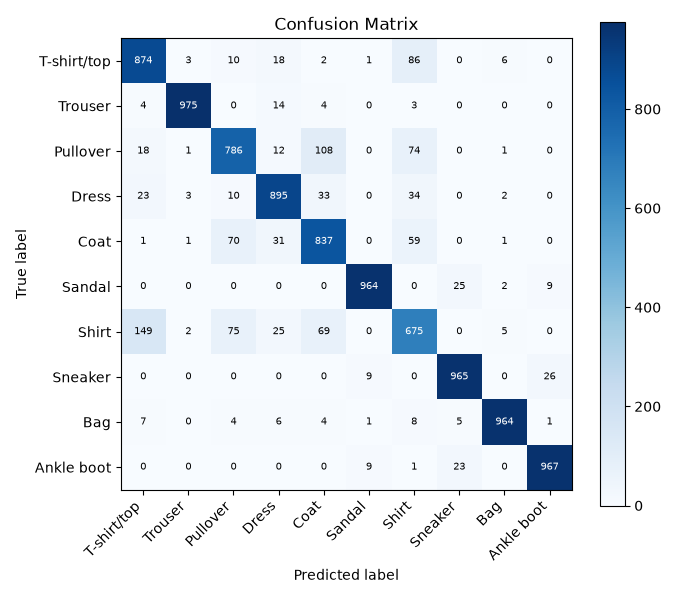
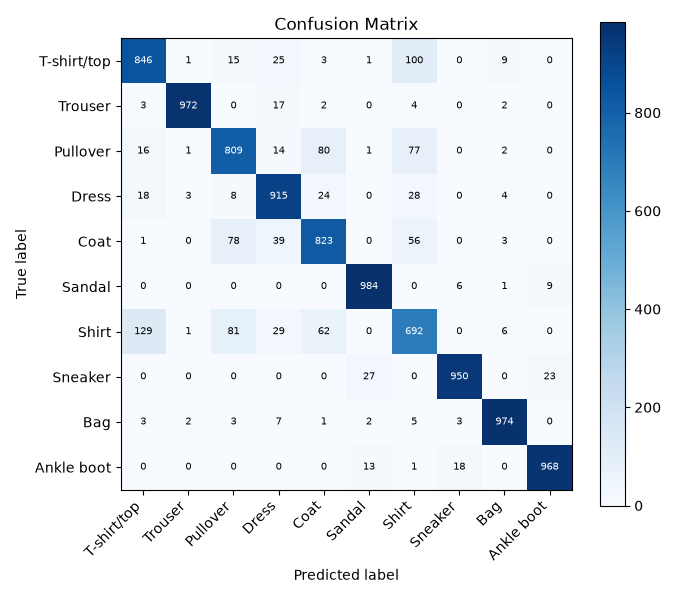
Done till hyperparameter tuning

diff --git a/08_hyperparameter-tuning.py b/08_hyperparameter-tuning.py
@@ -3,6 +3,7 @@ from typing import Any
 
 import matplotlib.pyplot as plt
 import numpy as np
+import optuna
 import torch
 from datasets import DatasetDict, load_dataset, load_from_disk
 from matplotlib.axes import Axes
@@ -47,19 +48,22 @@ class CustomDataset(Dataset):
 
 # Defining the model
 class MyNN(nn.Module):
-    def __init__(self, num_feat: int) -> None:
+    def __init__(self, inp_dim: int, out_dim: int, num_hidden_layers: int, neurons_per_hidden: int, dropout_rate: float) -> None:
         super().__init__()
-        self.model: nn.Sequential = nn.Sequential(
-            nn.Linear(num_feat, 128),
-            nn.BatchNorm1d(128),
-            nn.ReLU(),
-            nn.Dropout(p=0.3),
-            nn.Linear(128, 64),
-            nn.BatchNorm1d(64),
-            nn.ReLU(),
-            nn.Dropout(p=0.3),
-            nn.Linear(64, 10),
-        )
+        layers: list[nn.Module] = []
+
+        for i in range(num_hidden_layers):
+            layers.append(nn.Linear(inp_dim, neurons_per_hidden))
+            layers.append(nn.BatchNorm1d(neurons_per_hidden))  # Add batch normalization layer
+            layers.append(nn.ReLU())
+            layers.append(nn.Dropout(p=dropout_rate))  # Add dropout layer with suggested dropout rate
+
+            inp_dim = neurons_per_hidden  # Update input dimension for the next layer
+
+        # Add the output layer
+        layers.append(nn.Linear(neurons_per_hidden, out_dim))
+
+        self.model: nn.Sequential = nn.Sequential(*layers)
 
     def forward(self, X: torch.Tensor) -> torch.Tensor:
         return self.model(X)
@@ -200,6 +204,51 @@ def evaluate_model(model: MyNN, test_loader: DataLoader) -> tuple[float, float, 
     return accuracy, avg_loss, y_true, y_pred_all
 
 
+# optuna objective function
+def objective(
+    trial: optuna.Trial,
+    X_train: torch.Tensor,
+    y_train: torch.Tensor,
+    X_test: torch.Tensor,
+    y_test: torch.Tensor,
+) -> float:
+    # Dimensions
+    inp_dim: int = X_train.shape[1]
+    out_dim: int = len(CLASS_NAMES)
+
+    # Hyperparameter search space
+    num_hidden_layers: int = trial.suggest_int("num_hidden_layers", 2, 8)
+    neurons_per_hidden: int = trial.suggest_int("neurons_per_hidden", 32, 256)
+    epochs: int = trial.suggest_int("epochs", 10, 60, step=10)
+    learning_rate: float = trial.suggest_float("learning_rate", 1e-4, 1e-1, log=True)
+    dropout_rate: float = trial.suggest_float("dropout_rate", 0.1, 0.5, step=0.1)
+    batch_size: int = trial.suggest_categorical("batch_size", [16, 32, 64, 128])
+    optimizer_name: str = trial.suggest_categorical("optimizer", ["SGD", "Adam", "RMSprop", "AdamW"])
+
+    # Instantiate the model, loss function, and optimizer
+    myModel: MyNN = MyNN(inp_dim, out_dim, num_hidden_layers, neurons_per_hidden, dropout_rate).to(gpu_device)
+    loss_fn = nn.CrossEntropyLoss()
+    optimizer_cls = getattr(torch.optim, optimizer_name)
+    optimizer = optimizer_cls(myModel.parameters(), lr=learning_rate, weight_decay=1e-4)
+
+    # Define dataset and dataloader
+    train_loader: DataLoader
+    test_loader: DataLoader
+    train_loader, test_loader = build_dataloaders(X_train, y_train, X_test, y_test, batch_size=batch_size)
+
+    # Training loop
+    for epoch in range(epochs):
+        train_loss: float = train_model(myModel, train_loader, optimizer, loss_fn)
+
+        # Evaluate on test set
+        accuracy, avg_test_loss, _, _ = evaluate_model(myModel, test_loader)
+
+        if DEBUG and (epoch + 1) % 50 == 0:
+            print(f"[Epoch] {epoch + 1}/{epochs} => Train Loss: {train_loss:.4f} | Test Loss: {avg_test_loss:.4f} | Test Acc: {accuracy:.4f}")
+
+    return accuracy  # Return accuracy as the objective to maximize
+
+
 # to plot first few sample images
 def plot_sample_images(
     images: torch.Tensor, labels: torch.Tensor, n: int = 10, plots_dir: str = "./plots"
@@ -307,37 +356,38 @@ if __name__ == "__main__":
     if DEBUG:
         plot_sample_images(X_train, y_train, n=10)
 
-    # Define dataset and dataloader
-    train_loader: DataLoader
-    test_loader: DataLoader
-    train_loader, test_loader = build_dataloaders(X_train, y_train, X_test, y_test, batch_size=32)
-
     # Defining the parameters
     torch.manual_seed(23)
-    epochs: int = 200
-    learning_rate: float = 0.01
 
-    # Instantiate the model, loss function, and optimizer
-    myModel: MyNN = MyNN(X_train.shape[1]).to(gpu_device)
-    loss_fn = nn.CrossEntropyLoss()
-    optimizer = torch.optim.SGD(myModel.parameters(), lr=learning_rate, weight_decay=1e-4)
+    # Create an Optuna study to maximize accuracy
+    study: optuna.Study = optuna.create_study(direction="maximize")
+    study.optimize(
+        lambda trial: objective(
+            trial,
+            X_train,
+            y_train,
+            X_test,
+            y_test,
+        ),
+        n_trials=15,
+    )
 
-    # Training and Evaluation loop per epoch
-    train_losses: list[float] = []
-    test_losses: list[float] = []
-
-    for epoch in range(epochs):
-        # Train for 1 epoch
-        train_loss = train_model(myModel, train_loader, optimizer, loss_fn)
-        train_losses.append(train_loss)
-
-        # Evaluate to get the test loss and accuracy for this epoch
-        accuracy, test_loss, y_true, y_pred = evaluate_model(myModel, test_loader)
-        test_losses.append(test_loss)
-
-        if (epoch == 0 or (epoch + 1) % 10 == 0):
-            print(f"[Epoch] {epoch + 1}/{epochs} => Train Loss: {train_loss:.4f} | Test Loss: {test_loss:.4f} | Test Acc: {accuracy:.4f}")
+    # print the best hyperparameters
+    print("Best hyperparameters found:")
+    for key, value in study.best_params.items():
+        print(f"{key}: {value}")
 
     # Plot training/evaluation metrics
-    plot_loss(train_losses, test_losses)
-    plot_confusion_matrix(y_true, y_pred)
+    # plot_loss(train_losses, test_losses)
+    # plot_confusion_matrix(y_true, y_pred)
+
+"""
+Best hyperparameters found:
+    num_hidden_layers: 7
+    neurons_per_hidden: 137
+    epochs: 40
+    learning_rate: 0.00010788556585223089
+    dropout_rate: 0.1
+    batch_size: 128
+    optimizer: RMSprop
+"""
